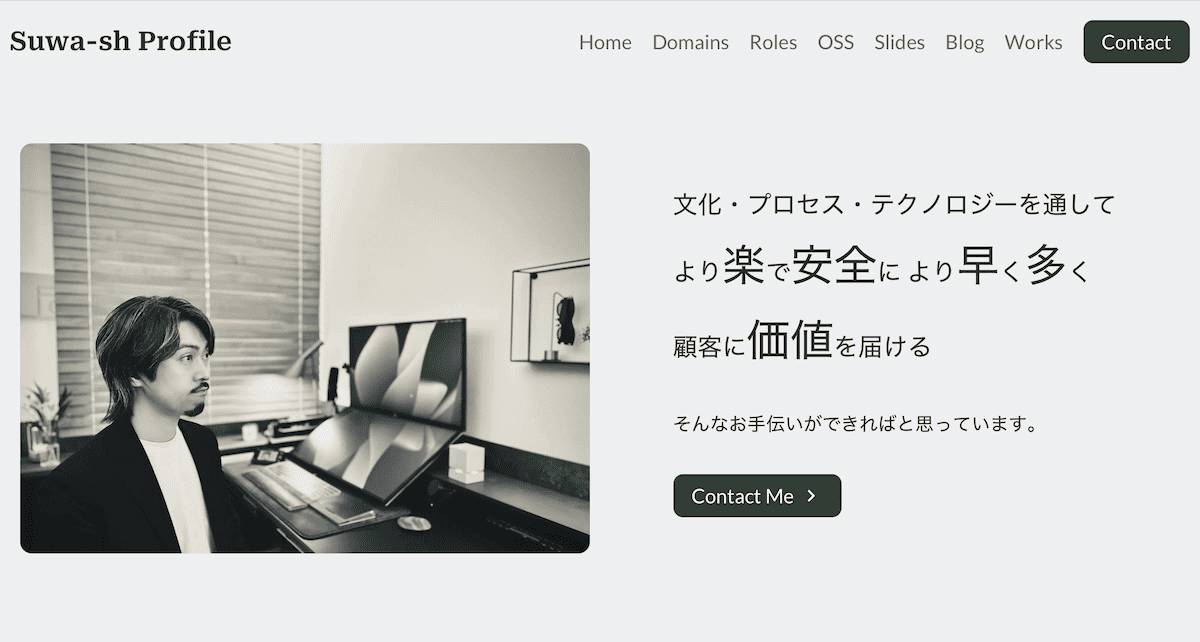
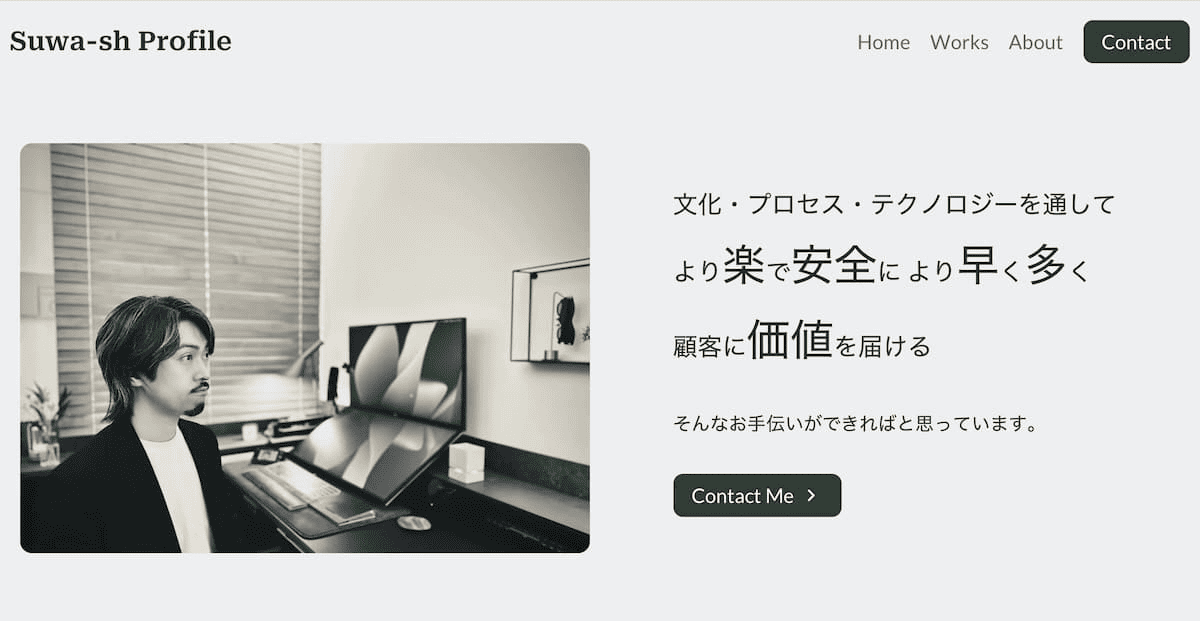
feat: aboutページ

diff --git a/src/config/footer.js b/src/config/footer.js
@@ -1,13 +1,13 @@
 export const footerSocials = [
   {
-    name: 'X',
-    url: 'https://x.com/suwa_sh',
-    icon: "mdi:twitter",
-  },
-  {
     name: 'Github',
     url: 'https://github.com/suwa-sh',
     icon: "mdi:github",
+  },
+  {
+    name: 'X',
+    url: 'https://x.com/suwa_sh',
+    icon: "mdi:twitter",
   },
   {
     name: 'Instagram',
@@ -21,24 +21,12 @@ export const footerLists = [
 		title: 'Profile',
 		items: [
 			{
-				title: 'Domains',
-				slug: '/profile/#Domains',
+				title: 'Home',
+				slug: '/profile',
 			},
 			{
-				title: 'Roles',
-				slug: '/profile/#Roles',
-			},
-			{
-				title: 'OSS',
-				slug: '/profile/#OSS',
-			},
-			{
-				title: 'Slides',
-				slug: '/profile/#Slides',
-			},
-			{
-				title: 'Blog',
-				slug: '/profile/#Blog',
+				title: 'About',
+				slug: '/profile/about',
 			},
 			{
 				title: 'Contact',

diff --git a/src/config/nav.js b/src/config/nav.js
@@ -4,27 +4,11 @@ export const nav = [
 		slug: '/profile/',
 	},
 	{
-		title: 'Domains',
-		slug: '/profile/#Domains',
-	},
-	{
-		title: 'Roles',
-		slug: '/profile/#Roles',
-	},
-	{
-		title: 'OSS',
-		slug: '/profile/#OSS',
-	},
-	{
-		title: 'Slides',
-		slug: '/profile/#Slides',
-	},
-	{
-		title: 'Blog',
-		slug: '/profile/#Blog',
-	},
-	{
 		title: 'Works',
 		slug: '/profile/works/dashboard',
+	},
+	{
+		title: 'About',
+		slug: '/profile/about',
 	},
 ];

diff --git a/src/components/odyssey-theme.js b/src/components/odyssey-theme.js
@@ -29,3 +29,6 @@ export { default as BlogPostPreview } from './blog/BlogPostPreview.astro';
 export { default as FormInput } from './form-fields/FormInput.astro';
 export { default as FormTextarea } from './form-fields/FormTextarea.astro';
 export { default as FormSelect } from './form-fields/FormSelect.astro';
+
+// custom Sections
+export { default as Experience } from './sections/Experience.astro';
